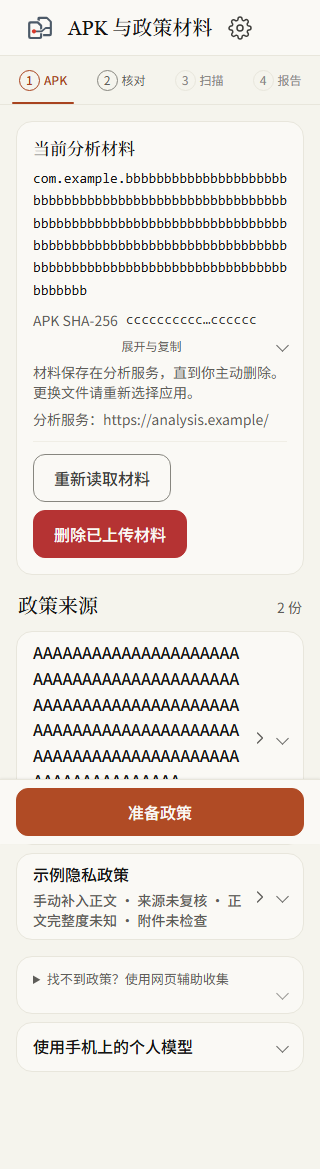
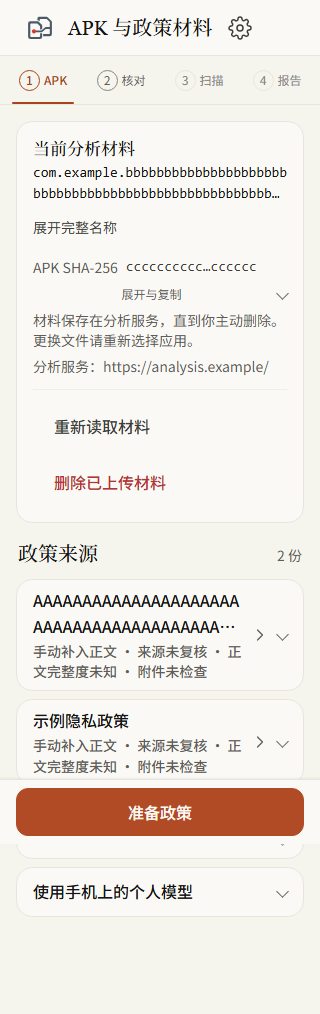
docs(acceptance): 接管 Astra 的设计细化并补交证据（#295）
- 收编 Astra 未推送的 5fff115（候选页减负 + 报告详情统一）为 57a8ae9，
  patch-id 一致；合入 origin/main，带回 #274/#289 的合并（阻塞解除）
- 写入 §9 接管收尾：提交谱系、两批细化内容、重跑结果、剩余项
- 带回 Astra 的 design-takeover 对照证据（7 图 + 2 JSON），
  新增 refinements 行为截图（保存被拒 / 剪贴板被拒 / 候选删除确认）
- 按新 HEAD 重拍 §4 的 14 张主证据

diff --git a/docs/acceptance/issue295/README.md b/docs/acceptance/issue295/README.md
@@ -1,10 +1,10 @@
 # #295 / PT-MOB-202 移动端 UI/UX 后续修订 — 实施记录
 
 - 日期：2026-10-23
-- 基线：`9fcfcd7d00af4c6ce8bd06b773aa0ac4b11150ec`（origin/main，含 #292/#293）；交付前 rebase 到 `origin/main 4d55a46`（含 #294/#300 等，均与前端无关）。
-- 分支：`codex/pt-mob-202-uiux`；实现提交 `32bbb91`、小修 `d5ac81d`、审阅处置 `3584384`、本记录快照 `7e2eed4`；工作树 `.agents/worktrees/pt-mob-202-uiux`。最终在 `1b96c80` 上以干净工作树复跑 `acceptance:mobile` 与 `acceptance:reading`，`dirty=false` 且重生成的截图与提交逐字节一致。
-- 依据：Issue #295 正文 + 2026-10-23 用户转述的 GPT6 ASTRA 两轮审阅意见（排版/可读性、按钮体系与操作层级）。
-- 阻塞说明：票面 **Blocked by #274**（PR #289 仍 OPEN）。本次按用户直接指令先实施，未改写 #274 负责的保存确认接缝；合并前需按协作清单回读 #289 产物与最终 main。
+- 基线：`9fcfcd7d00af4c6ce8bd06b773aa0ac4b11150ec`（origin/main，含 #292/#293）；交付期间 rebase 到 `4d55a46`，再由 Astra 的 `f301f39` 带回 `origin/main`（含 #274/#289 的合并提交 `8c7a844`）。
+- 分支：`codex/pt-mob-202-uiux`；实现 `32bbb91`、小修 `d5ac81d`、审阅处置 `3584384`、Astra 细化 `29ea350`、交接 `9847e08`、接管整合 `57a8ae9`（cherry-pick 自 Astra 未推送的 `5fff115`，patch-id 一致）；工作树 `.agents/worktrees/pt-mob-202-uiux`。
+- 依据：Issue #295 正文 + 2026-10-23 用户转述的 GPT6 ASTRA 两轮审阅意见（排版/可读性、按钮体系与操作层级），以及 Astra 在 §8 交接的两批细化（规范 §16.1 / §16.2）。
+- 阻塞说明：**票面 Blocked by #274 已解除**——PR #289 于 `8c7a844` 合入 main 并已带回本分支；PR #302 仍为 draft，合并与解除 draft 由人类决定。
 
 ## 1. 复现与判断
 
@@ -55,7 +55,7 @@ ASTRA 的两轮截图位于本机忽略目录 `tmp/frontend-visual-acceptance-20
 
 ## 4. 截图
 
-“改后”截图存放在本目录，均由 `acceptance:mobile` / `acceptance:reading` 的真实 Chromium + mocked native bridge 生成：
+“改后”截图存放在本目录，均在接管整合后的 HEAD 重新生成（`acceptance:mobile` / `acceptance:reading` 与仓库自带的 deterministic bridge）：
 
 | 文件 | 场景 |
 | --- | --- |
@@ -64,19 +64,36 @@ ASTRA 的两轮截图位于本机忽略目录 `tmp/frontend-visual-acceptance-20
 | `candidates-320-200-after.png` | 候选页，320px，200%（材料摘要换行、来源标签栏、候选列表行） |
 | `candidates-390-after.png` | 候选页长来源标题，390px |
 | `candidates-390-reading-after.png` | 候选页，390px（reading 套件视角） |
-| `progress-320-200-after.png` | 进度页，320px，200%（失败/进行中底栏不再挤占正文） |
+| `progress-320-200-after.png` | 进度页，320px，200%（底栏不再挤占正文） |
 | `progress-failed-390-after.png` | 失败终态，390px：真实失败原因 + 「重新分析」主操作、「刷新状态」次操作、任务详情折叠 |
 | `progress-failed-320-200-after.png` | 失败终态，320px，200% |
-| `report-320-200-after.png` | 报告，320px，200%（说明不再叠行） |
-| `progress-failed-390-after.png` | 失败终态，390px：真实失败原因 + 「重新分析」主操作、「刷新状态」次操作、任务详情折叠 |
-| `progress-failed-320-200-after.png` | 失败终态，320px，200% |
+| `report-320-200-after.png` | 报告，320px，200%（说明不叠行、状态与限制前置） |
+| `report-390-200-after.png` | 报告，390px，200% |
 | `import-empty-390.png` | 导入空态：空状态卡片承载唯一主 CTA，没有固定底栏 |
 | `material-delete-confirm-390.png` | 删除材料二次确认：作用对象、后果、确认/取消 |
 | `settings-390.png` | 服务与存储设置（全屏 sheet） |
 | `evidence-inline-390.png` | 行内证据：静态线索 → 政策原句 → 未知项 → 技术详情 |
-| `report-390-200-after.png` | 报告，390px，200% |
 
-“改前”截图只在 ASTRA 审阅时提供的本机忽略目录里（`320-import-200.png`、`390-report-200.png`、`320-candidates.png`、`390-evidence-sheet.png`、`390-progress-failed.png` 等），未上传；本目录不复制旧图，避免与历史证据混淆。
+Astra 交接的对比证据（`design-takeover/`，来自其本机未推送提交；两份 JSON 的 `source_sha` 指向 `5fff115`，与本分支 `57a8ae9` patch-id 相同）：
+
+| 文件 | 场景 |
+| --- | --- |
+| `candidates-before.png` / `candidates-after.png` | 候选页减负前后（390px） |
+| `candidates-large.png` | 候选页 320px / 200% |
+| `import-after.png` | 导入页收敛后（390px） |
+| `report-before.png` / `report-after.png` | 报告详情统一前后（390px） |
+| `report-details.png` | 「报告来源与技术详情」展开（390px） |
+| `reading.json` / `refinements.json` | 两套验收的检查项与截图清单 |
+
+本轮细化行为证据（`refinements/`，`scripts/verify-issue295-refinements.cjs` 生成）：
+
+| 文件 | 场景 |
+| --- | --- |
+| `save-rejected-390.png` | 保存被拒后保留编辑、不显示假成功 |
+| `hash-copy-failed-390.png` | 剪贴板被拒时的可见、可重试状态 |
+| `candidate-delete-confirm-390.png` / `-320-200.png` | 候选删除原位二次确认（含 200%） |
+
+“改前”截图只在 ASTRA 审阅时提供的本机忽略目录里（`320-import-200.png`、`390-report-200.png`、`320-candidates.png`、`390-evidence-sheet.png`、`390-progress-failed.png` 等），未上传；`design-takeover/` 的 before/after 是 Astra 为第二批细化留的对照，不替换历史证据。
 
 ## 5. 未验证（NOT RUN）
 
@@ -145,4 +162,57 @@ ASTRA 的两轮截图位于本机忽略目录 `tmp/frontend-visual-acceptance-20
 
 - 按 `AGENTS.md` 与 `docs/agents/skills-workflow.md` §6 先回读 Issue #295 当前执行记录，确认唯一执行会话后再开工；本文件只是交接材料，不构成新的授权。
 - 合并、发布、部署不在本交接授权内。
+
+## 9. 设计接管收尾（2026-10-23）
+
+本节接 §8 继续记录：从 Astra 交接、未推送提交的整合，到新 HEAD 上的复核。PR #302 仍为 draft，Issue #295 仍 OPEN；合并、发布、部署不在本轮授权内，§8 的接手约定继续有效。
+
+### 9.1 接管点与提交谱系
+
+| 提交 | 作用 |
+| --- | --- |
+| `29ea350` | Astra 第一批细化（规范 §16.1），§8 记录的交接点 |
+| `9847e08` | 交接提交，只改本文件（§8） |
+| `5fff115` | Astra 第二批细化（规范 §16.2），留在本机、未推送 |
+| `57a8ae9` | 把 `5fff115` cherry-pick 到 `9847e08` 之上，保留原作者与日期；两者 `git patch-id` 均为 `0901811848439e597f0370e5efa9af2e813060c1` |
+| `f301f39` | 分支合入 `origin/main`，带回 `8c7a844`（#274 / PR #289 的合并） |
+
+- 阻塞解除：#274 的交付 PR #289 于 `8c7a844` 合入 main，`f301f39` 已把产物带回本分支；票面 Blocked by #274 据此不再成立。
+- 比较 `5fff115` 与 `57a8ae9` 要看补丁而不是整棵树：两者基线不同，`57a8ae9` 额外包含 §8 交接文档与 main 带来的 `apps/api` 变更。
+
+### 9.2 Astra 两批细化的内容
+
+第一批（`29ea350`，规范 [§16.1](../../design/frontend-design-spec-mobile.md)）：
+
+1. 新增 `MobileReadableName`：材料名与来源名默认最多两行，只有实际溢出时才出现原位「展开完整名称」，切换来源重置展开；正文完整度、复核与附件状态不折叠。
+2. 顶栏保持原字号与完整标题；实测高度超过 96px（两个最小触控行）时改为随正文滚动，不缩小用户字号，恢复正常字号后回到吸顶行为。
+3. 候选表单说明「保存候选」只保存当前编辑并把该条标为已检查、不启动分析；候选步底栏紧邻说明「保存全部候选，创建新分析」，逐条检查仍可选，不提升全文与附件复核状态。
+4. 移动候选删除降为危险色次操作，原位二次确认并写明作用对象与政策原文/其他候选的保留范围；确认时焦点进入，取消后回到发起按钮且不发写请求；桌面分支不变。
+5. `HashValue` 复制被拒时给出可见、可重试的状态说明，完整值保留供选择复制；只有剪贴板写入完成后才播报成功，重复点击去抖。
+6. `mobile.css` 为固定底栏与键盘高度预留滚动空间，候选来源标题的两行裁切只在收起时生效。
+7. 新增 `scripts/verify-issue295-refinements.cjs`：320/390 与 200% 根字号下的判据与截图（Chromium + mocked native bridge）。
+
+第二批（`5fff115` → `57a8ae9`，规范 [§16.2](../../design/frontend-design-spec-mobile.md)）：
+
+1. 候选页减负：移除与标签重复的「候选声明」标题和列表外层卡片，检查计数移到标题行；页面顺序为材料 → 来源及状态 → 原文/候选切换 → 计数与添加 → 候选列表 → 编辑表单，390×844 首条摘要与底栏之间至少留一个 48px 触控行。
+2. 报告详情统一：首屏保留中文来源/查看方式、静态边界、扫描范围、待复核条目与政策复核/完整度/附件状态；来源标识、生成时间、服务/材料版本与政策快照统一收进「报告来源与技术详情」，移除独立 provenance 横幅与摘要卡里的第二个「来源标识」入口。
+3. SDK 归属：折叠态先给本次命中情况与「静态存在不证明实际运行或采集」/「未命中不代表没有 SDK」，通用方法说明放进「如何理解 SDK 归属」，coverage 限制继续外显。
+4. 材料删除在导入页与设置页都改为中性文字发起、危险色实心确认；确认出现后焦点进入确认按钮，取消后回到发起按钮。
+5. 视觉取舍：沿用暖纸、象牙、正文/辅助色与主操作/危险色；衬线用于标题与政策阅读、无衬线用于控件；单列、一个底栏主操作、有限分隔线，不加第二套色彩、卡片阴影或新动效，不改流程可达规则、保存接缝与桌面布局。
+6. 验证脚本随第二批更新：细化脚本增加「材料删除焦点进入/恢复、取消不写服务」判据并补整页截图；`verify-mobile-reading.cjs` 同步改为断言统一的「报告来源与技术详情」入口。
+
+### 9.3 本轮收尾记录
+
+- 整合未推送提交：`git cherry-pick -x 5fff115` → `57a8ae9`；`git patch-id` 前后均为 `0901811848439e597f0370e5efa9af2e813060c1`，确认补丁一致。
+- 带回证据：`design-takeover/`（7 张 PNG + `reading.json` + `refinements.json`）已从 Astra 本机工作树未跟踪目录复制进本目录并随本节提交。
+- 在新 HEAD（`57a8ae9`）重跑验收：9 条命令全部退出码 0 —— `typecheck`、`build`、web 单测 152、`acceptance:mobile` 22 组、`acceptance:reading` 8 项（`dirty=false`）、`acceptance:motion` 20 项、`acceptance:frontend`（Brand 103 / Reports 15 / Policy assist 10 / Copy contract 42）、`acceptance:hierarchy` 11 项、`acceptance:browser`（PORT=8199，TC-03/04/05）。
+- 重拍主证据：§4 的 14 张已按新 HEAD 重新生成；随后在干净工作树复跑，重生成文件与提交逐字节一致（最终交付 SHA：`{{FINAL_SHA}}`）。
+- 证据对齐：`design-takeover/` 两份 JSON 的 `source_sha` 保留 `5fff115`——那是 Astra 生成它们时的真实提交，且与本分支 `57a8ae9` patch-id 相同；不把证据里的历史 SHA 改写成新哈希。§4 的主证据绑定最终交付 SHA。
+
+### 9.4 仍未完成
+
+1. 真机验收（本票唯一硬缺口）：Android WebView 软键盘实际高度、safe-area、系统字号（font scale）、TalkBack 朗读顺序；模拟器与 844×390 横屏仍未跑。
+2. `scripts/verify-frontend-round2.cjs` 末段「行内证据返回后恢复滚动位置」仍不通过（before 580 / after 0），原因未定，不作为通过项；`acceptance:mobile` 内同一合同通过。
+3. 本机 `scripts/check.sh` 有 8 项 `apps/api` `ISOLATED_INSPECTION_UNAVAILABLE` 失败；干净 `origin/main` 上同样失败（隔离扫描不可用），以远端 CI 为准。
+4. 人类决定：是否解除 draft、是否合并；用户审美认可不由机器断言或代理审阅代替。
 
